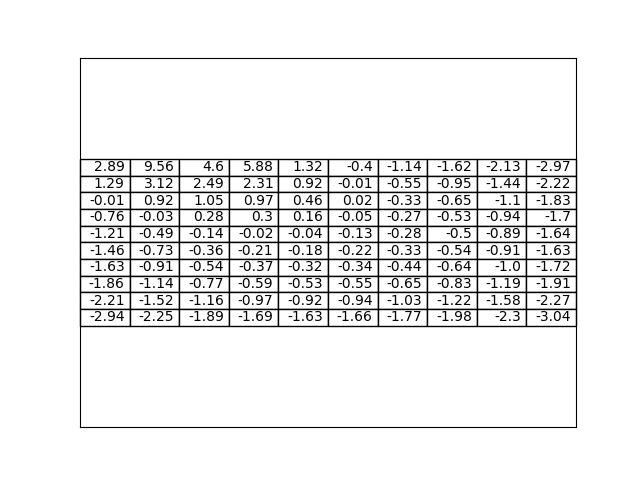
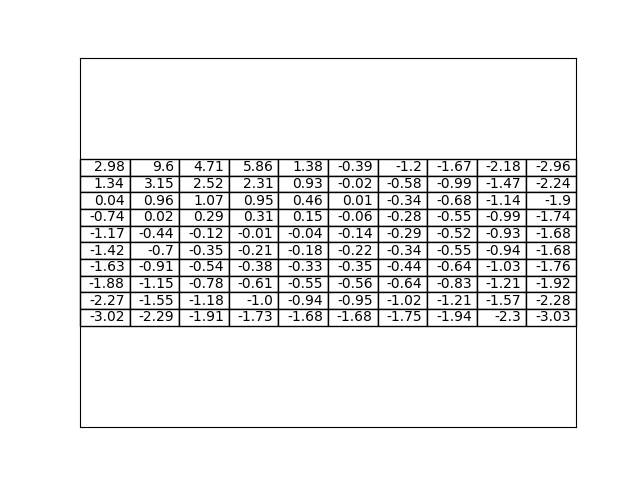
fix 3.5

diff --git a/chap 3/3_5.py b/chap 3/3_5.py
@@ -3,7 +3,7 @@ import matplotlib.pyplot as plt
 from tqdm import trange
 
 N, M = 10,10
-n_try = 1000
+n_try = 3000
 ans = np.zeros((N, M))
 
 for _ in trange(n_try):
